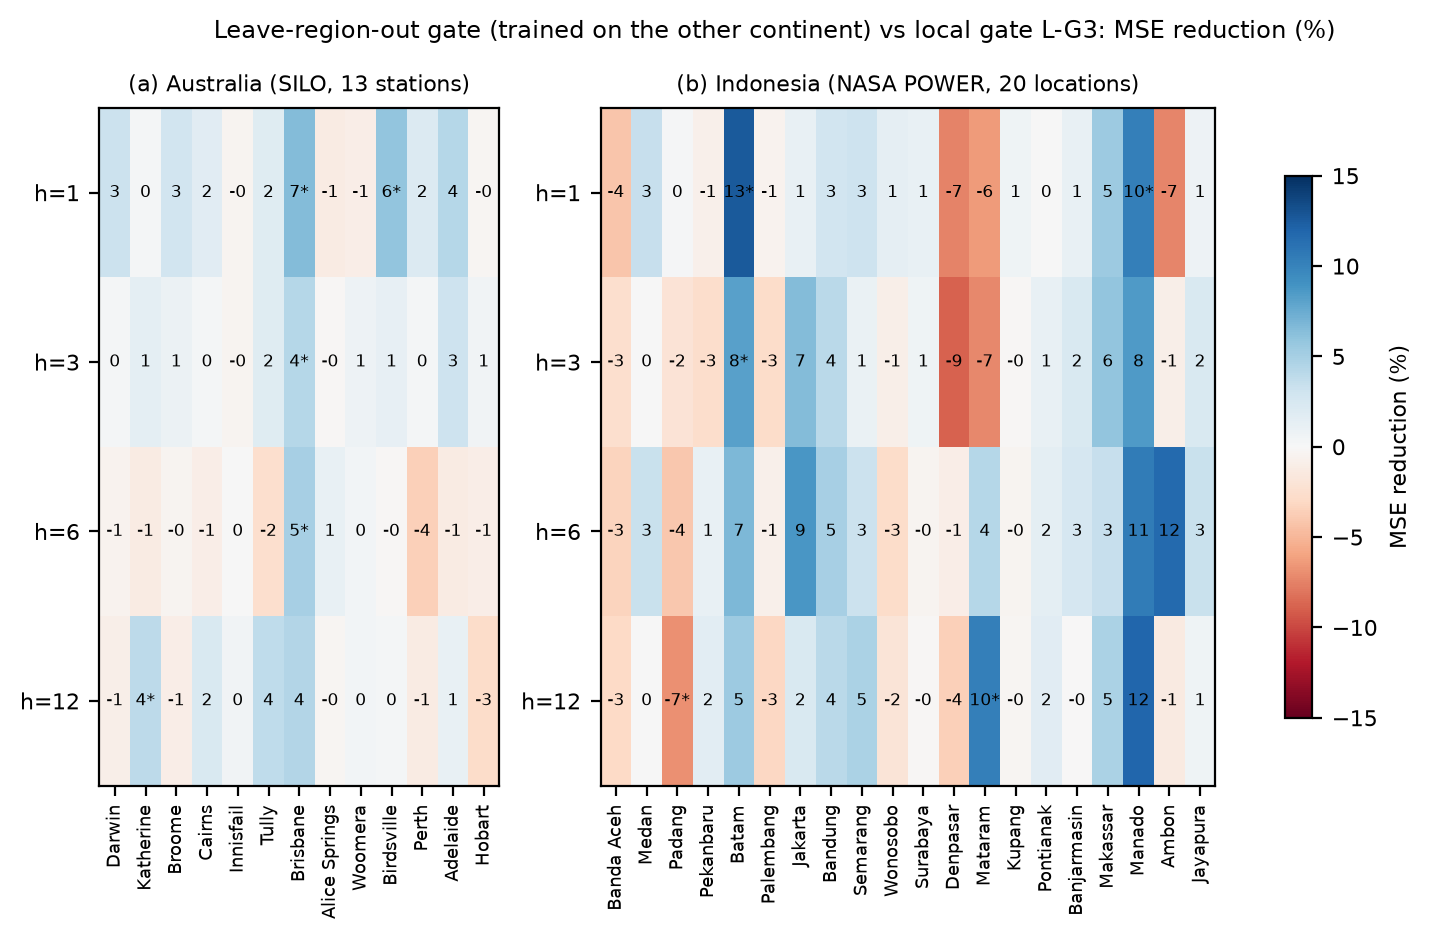
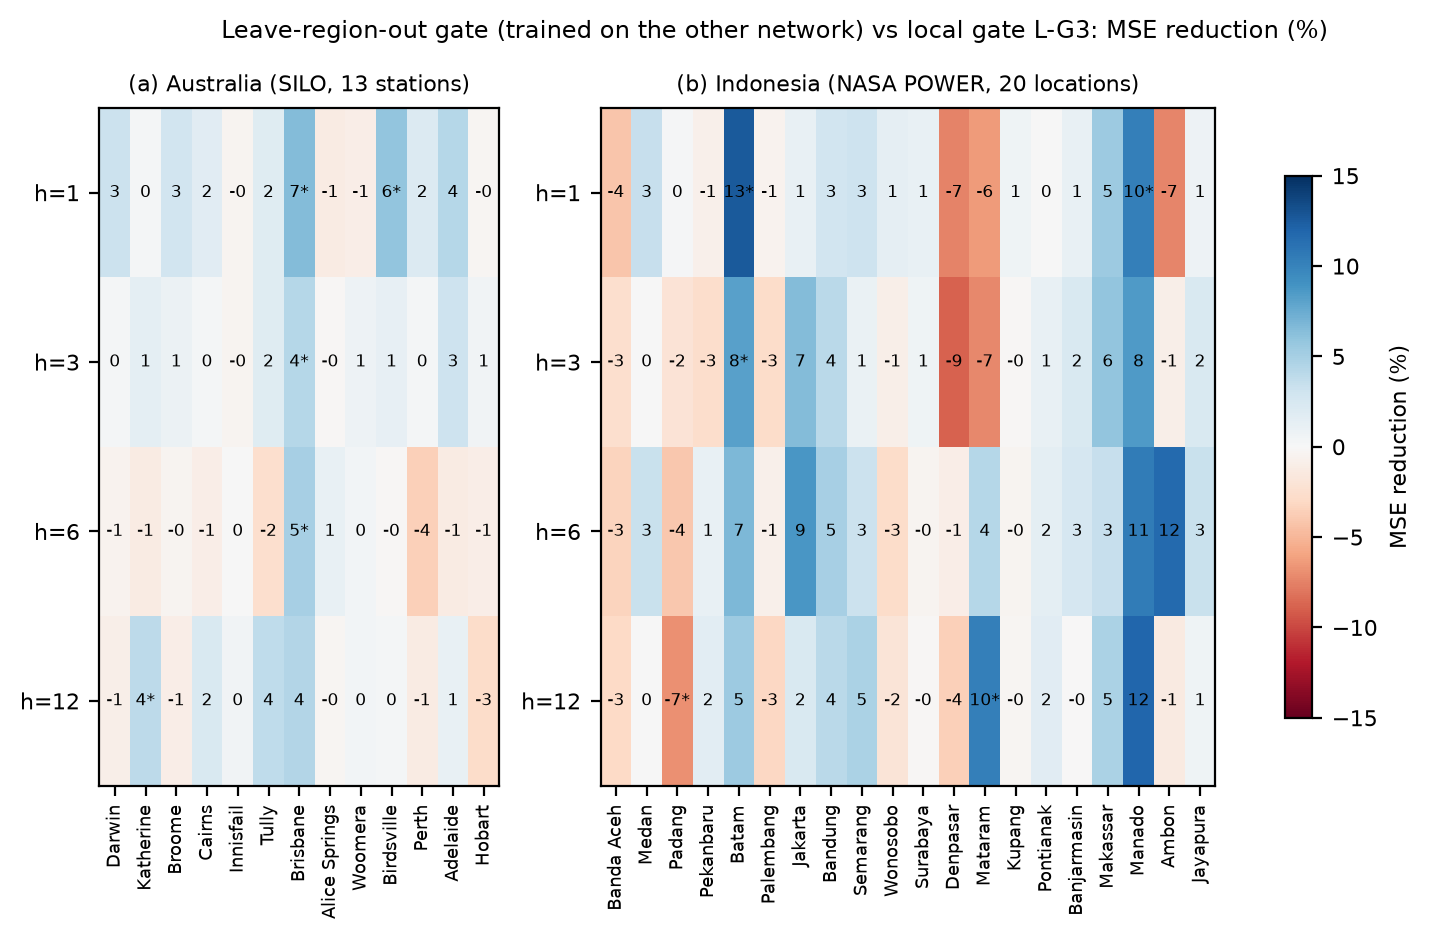
Report: label the leave-region-out comparison by network instead of continent; regenerate figures

Changed region(s): [[0.1537, 0.0, 0.9224, 0.0618]]

diff --git a/src/report.py b/src/report.py
@@ -1,4 +1,4 @@
-# Stage 8: tables (CSV) and figures (PNG) of the experiment, from results/evaluation_results.json.
+# Stage 8: tables (CSV) and figures (PNG) of the experiment, from results/evaluation_results.json.
 #   python src/report.py
 import os, sys, json
 sys.path.insert(0, os.path.dirname(os.path.abspath(__file__)))
@@ -67,7 +67,7 @@ axs[1].legend(fontsize=6.5, ncol=2, loc="lower left"); fig.tight_layout(); fig.s
 
 # Figure 2: MSE change (%) of LRO vs L-G3 per station and horizon, per region
 fig, axs = plt.subplots(1, 2, figsize=(9, 4.4), gridspec_kw={"width_ratios": [13, 20]})
-fig.suptitle("Leave-region-out gate (trained on the other continent) vs local gate L-G3: MSE reduction (%)", fontsize=8.5)
+fig.suptitle("Leave-region-out gate (trained on the other network) vs local gate L-G3: MSE reduction (%)", fontsize=8.5)
 for ax, r in zip(axs, REGION_LIST):
     key = "LRO vs L-G3"; rows_ = R["dm"][r].get(key, []); stl = R["stations"][r]
     Mx = np.full((4, len(stl)), np.nan); Sg = np.zeros((4, len(stl)), bool)
